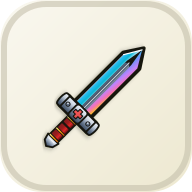
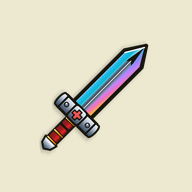
chore: update PWA assets and manifest
Refreshed PWA icons with diagonal sword branding, updated file cache busting versions, and added explicit icon entries to the web manifest for improved installation support.

diff --git a/src/components/TimelineView.tsx b/src/components/TimelineView.tsx
@@ -270,9 +270,9 @@ export const TimelineView: React.FC<TimelineViewProps> = ({
                       className="group w-14 h-14 sm:w-15 sm:h-15 rounded-full bg-[#FAF8F0] border-2 border-[#141410] ring-2 ring-[#141410]/25 ring-offset-2 ring-offset-[#EDE8D0] shadow-xs cursor-pointer flex items-center justify-center relative z-10 transition-all duration-200 hover:scale-[1.06] hover:-translate-y-0.5 active:scale-[0.96] active:translate-y-0 select-none"
                       aria-label={`Horário selecionado (${hourStr}) — Toque para criar atividade`}
                     >
-                      {/* Official Dimo RPG Chromatic Sword Asset */}
+                      {/* Official Dimo RPG Chromatic Sword Asset (icone2 / icone4) */}
                       <img
-                        src="/icone4.png"
+                        src="/icone2.png"
                         alt="Dimo Espada"
                         width={32}
                         height={32}
@@ -280,16 +280,22 @@ export const TimelineView: React.FC<TimelineViewProps> = ({
                       />
                     </button>
                   ) : (
-                    /* Normal Unselected Empty Hour Waypoint (calm, clean, transitions to sword on click) */
+                    /* Normal Unselected Empty Hour Waypoint (calm, clean with subtle sword preview) */
                     <button
                       type="button"
                       onClick={() => handleEmptyHourClick(hour, hourStr)}
-                      title={`Selecionar ${hourStr} para adicionar atividade`}
+                      title={"Selecionar " + hourStr + " para adicionar atividade"}
                       className="w-9.5 h-9.5 sm:w-10 sm:h-10 rounded-full border border-[#C4C0AB] bg-[#FAF8F0]/70 hover:border-[#141410] hover:bg-[#FAF8F0] transition-all duration-200 hover:scale-105 active:scale-95 cursor-pointer group flex items-center justify-center relative z-10 select-none shadow-xs"
-                      aria-label={`Selecionar ${hourStr}`}
+                      aria-label={"Selecionar " + hourStr}
                     >
-                      <span className="w-1.5 h-1.5 rounded-full bg-[#C4C0AB] group-hover:bg-[#141410] transition-colors" />
-                      <Plus className="w-3.5 h-3.5 stroke-[2.5] hidden group-hover:block text-[#141410] transition-transform group-hover:scale-110 absolute" />
+                      {/* RPG Sword Preview (icone4 / icone2) before creating task */}
+                      <img
+                        src="/icone4.png"
+                        alt=""
+                        width={20}
+                        height={20}
+                        className="w-4.5 h-4.5 object-contain pixel-crisp pointer-events-none opacity-40 group-hover:opacity-100 transition-all duration-200 group-hover:scale-110"
+                      />
                     </button>
                   )}
                 </div>

diff --git a/src/index.css b/src/index.css
@@ -10,7 +10,6 @@
     --charcoal-warm: #545248;
     --charcoal-dark: #33312B;
     --charcoal-black: #141410;
-
     --bg-main: #EDE8D0;
     --surface: #FAF8F0;
     --surface-secondary: #C4C0AB;
@@ -64,33 +63,43 @@
     width: 5px;
     height: 5px;
   }
+
   ::-webkit-scrollbar-track {
     background: #EDE8D0;
   }
+
   ::-webkit-scrollbar-thumb {
     background: #C4C0AB;
     border-radius: 4px;
   }
+
   ::-webkit-scrollbar-thumb:hover {
     background: #9D9988;
   }
 }
 
-/* Responsive iOS Safe Area for Header/Toolbar:
- * - Toolbar background occupies the entire top region (behind Status Bar / Dynamic Island)
- * - Content begins strictly below env(safe-area-inset-top)
- * - Zero fixed margins/paddings or arbitrary percentages
- * - Crisp Retina anti-aliasing without blur
+/* Header Safe Area handling:
+ * In normal browser (Safari): uses env(safe-area-inset-top, 0px) cleanly
+ * In standalone PWA (iPhone Home Screen): provides a controlled top spacing (~5% or safe-area inset)
+ * to prevent hardware texture blurring / dynamic island overlap
  */
 .header-safe-area {
   padding-top: env(safe-area-inset-top, 0px);
   -webkit-font-smoothing: antialiased;
   -moz-osx-font-smoothing: grayscale;
   text-rendering: optimizeLegibility;
-  transform: translateZ(0);
-  -webkit-transform: translateZ(0);
-  backface-visibility: hidden;
-  -webkit-backface-visibility: hidden;
+}
+
+/* Specific controlled spacing in standalone PWA mode (display-mode: standalone or iOS navigator.standalone) */
+@media (display-mode: standalone) {
+  .header-safe-area {
+    padding-top: max(env(safe-area-inset-top, 0px), 5vh);
+  }
+}
+
+/* Fallback for iOS Standalone class */
+.pwa-standalone-header {
+  padding-top: max(env(safe-area-inset-top, 0px), 5vh) !important;
 }
 
 /* Sharp vector rendering & smooth subpixel anti-aliasing */

diff --git a/index.html b/index.html
@@ -17,12 +17,14 @@
     <meta name="apple-mobile-web-app-status-bar-style" content="default" />
     <meta name="apple-mobile-web-app-title" content="Dimo" />
     <meta name="application-name" content="Dimo" />
-
-    <link rel="manifest" href="/manifest.webmanifest?v=2" />
-    <link rel="apple-touch-icon" href="/apple-touch-icon.png?v=2" />
-    <link rel="apple-touch-icon-precomposed" href="/apple-touch-icon-precomposed.png?v=2" />
-    <link rel="icon" type="image/svg+xml" href="/icon.svg?v=2" />
-    <link rel="icon" type="image/png" sizes="32x32" href="/favicon-32x32.png?v=2" />
+    
+    <!-- PWA Icons - Sword on diagonal badge for iOS & PWA standalone home screen -->
+    <link rel="manifest" href="/manifest.webmanifest?v=3" />
+    <link rel="apple-touch-icon" sizes="180x180" href="/apple-touch-icon.png?v=3" />
+    <link rel="apple-touch-icon-precomposed" sizes="180x180" href="/apple-touch-icon-precomposed.png?v=3" />
+    <link rel="icon" type="image/png" sizes="32x32" href="/favicon-32x32.png?v=3" />
+    <link rel="icon" type="image/png" sizes="192x192" href="/pwa-192x192.png?v=3" />
+    <link rel="icon" type="image/png" sizes="512x512" href="/pwa-512x512.png?v=3" />
 
     <link rel="preconnect" href="https://fonts.googleapis.com">
     <link rel="preconnect" href="https://fonts.gstatic.com" crossorigin>

diff --git a/src/App.tsx b/src/App.tsx
@@ -405,7 +405,7 @@ export default function App() {
     <div className="w-full h-full h-[100dvh] max-w-full overflow-hidden bg-[#EDE8D0] text-[#141410] flex flex-col font-sans selection:bg-[#33312B] selection:text-[#EDE8D0]">
       {/* ÁREA 1 — INTERFACE FIXA (Área segura do iOS / Dynamic Island + Toolbar + DaySelector) */}
       <header
-        className="shrink-0 w-full z-30 bg-[#EDE8D0] border-b border-[#C4C0AB] shadow-[0_2px_12px_rgba(20,20,16,0.04)] select-none header-safe-area"
+        className={`shrink-0 w-full z-30 bg-[#EDE8D0] border-b border-[#C4C0AB] shadow-[0_2px_12px_rgba(20,20,16,0.04)] select-none header-safe-area ${pwa.isStandalone ? "pwa-standalone-header" : ""}`}
       >
         <Header
           currentView={currentView}

diff --git a/public/sw.js b/public/sw.js
@@ -1,4 +1,4 @@
-const CACHE_NAME = 'dimo-pwa-v2-sword';
+const CACHE_NAME = 'dimo-pwa-v3-sword';
 const ASSETS_TO_CACHE = [
   '/',
   '/index.html',
